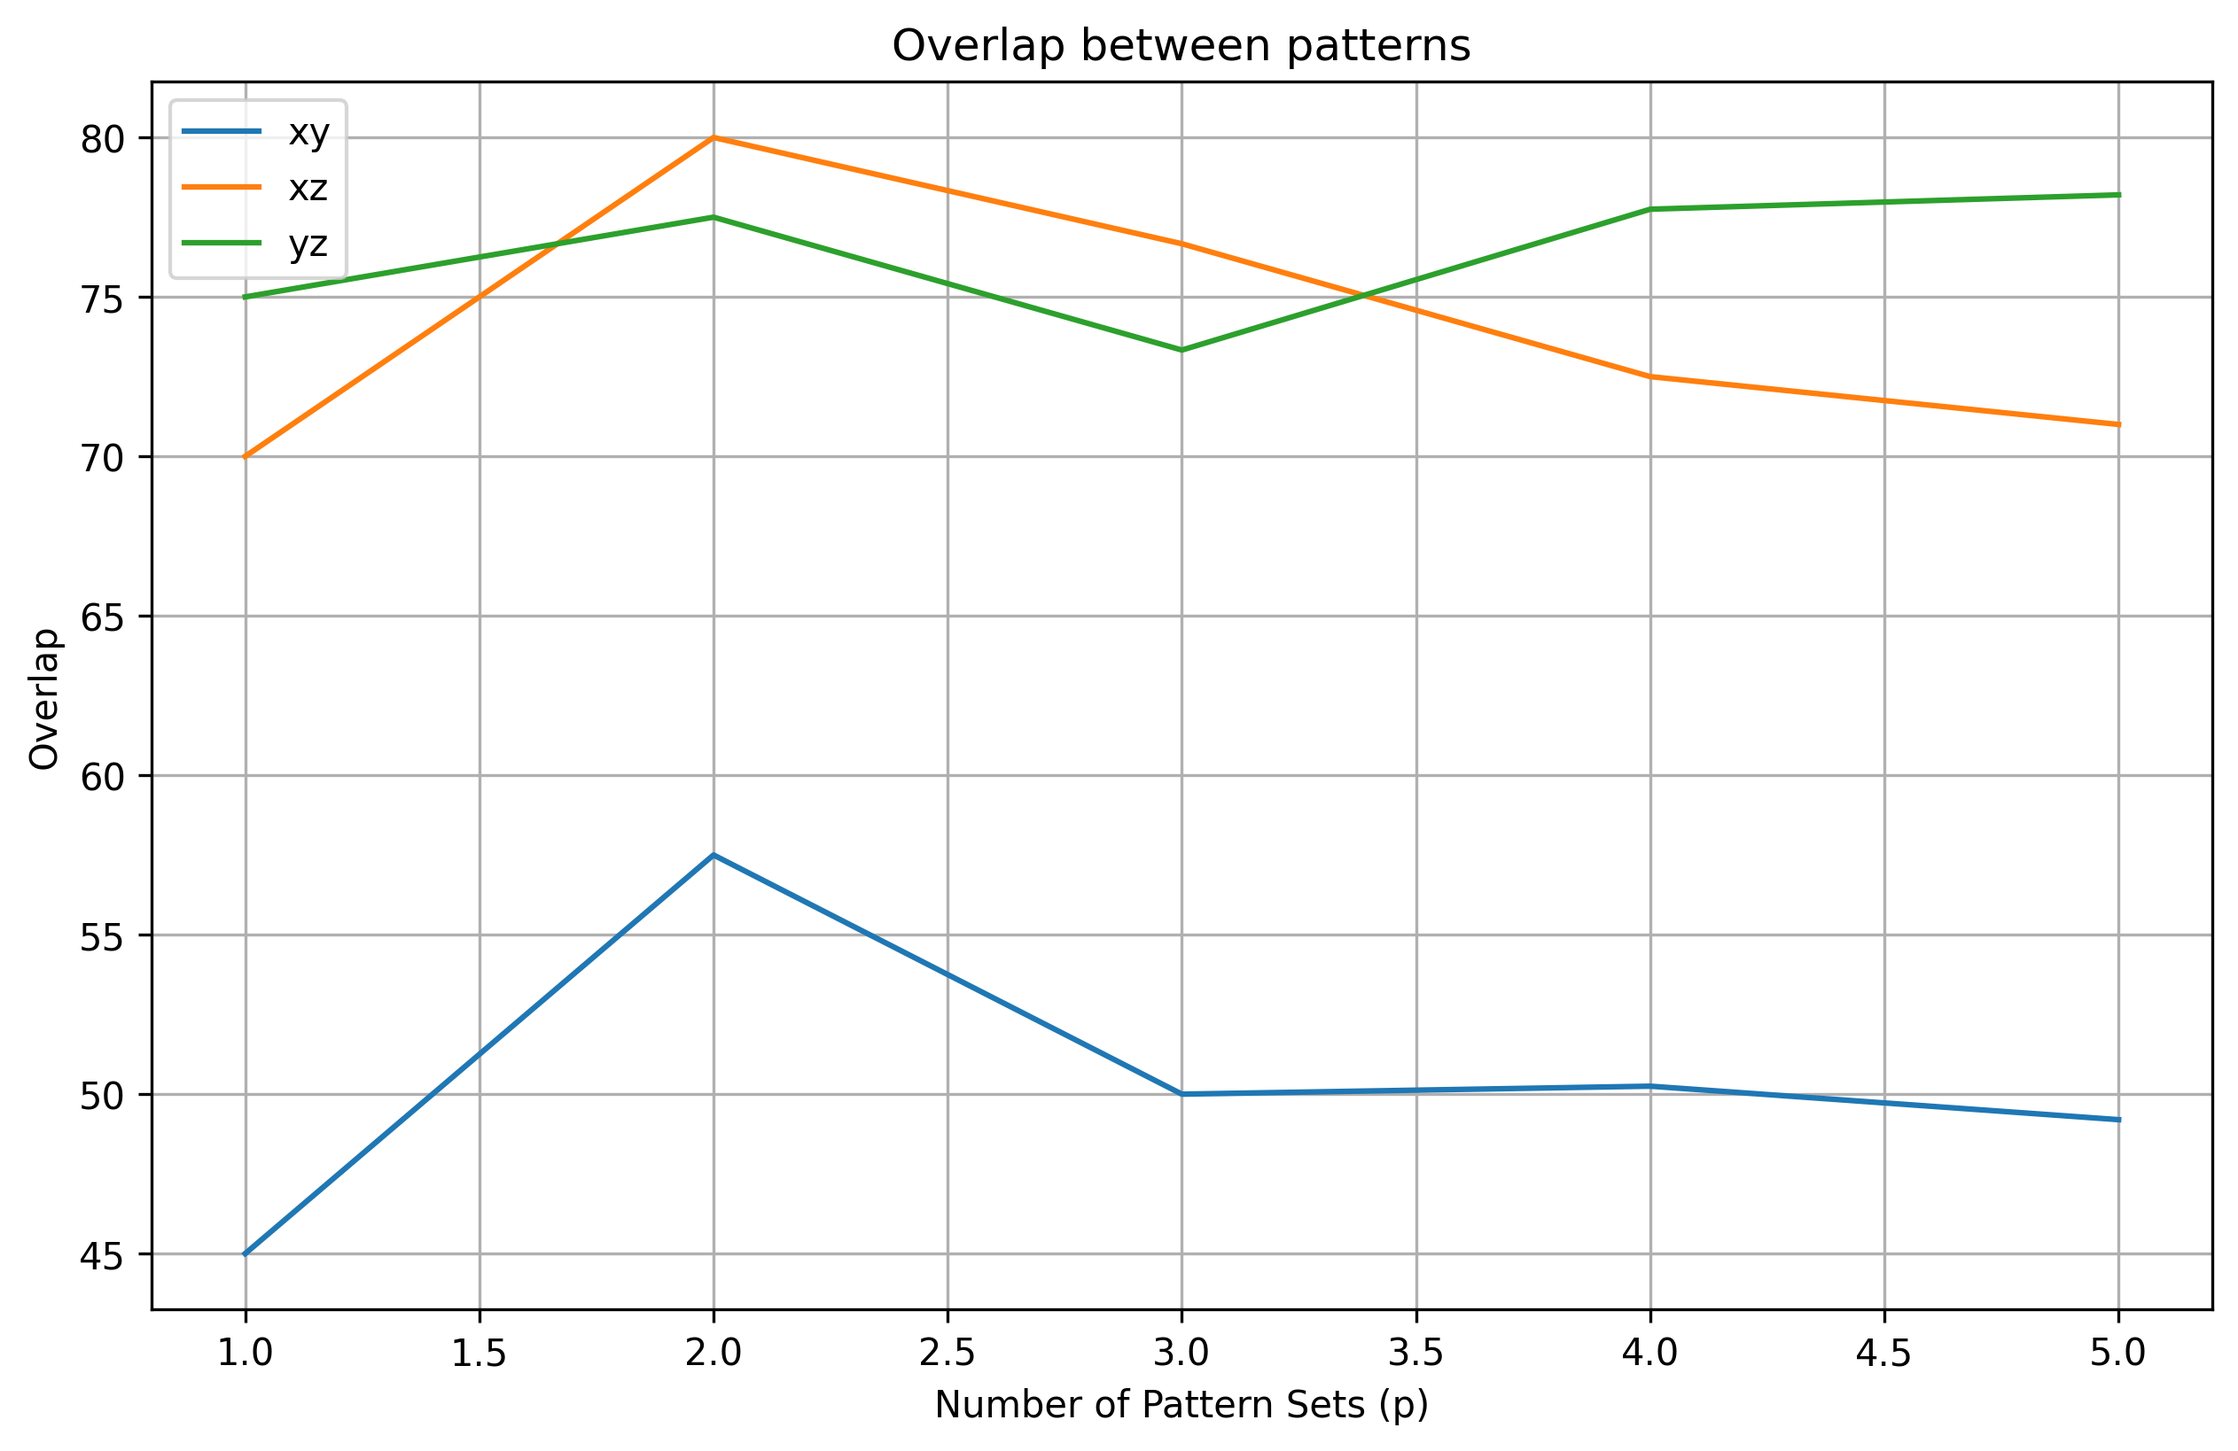
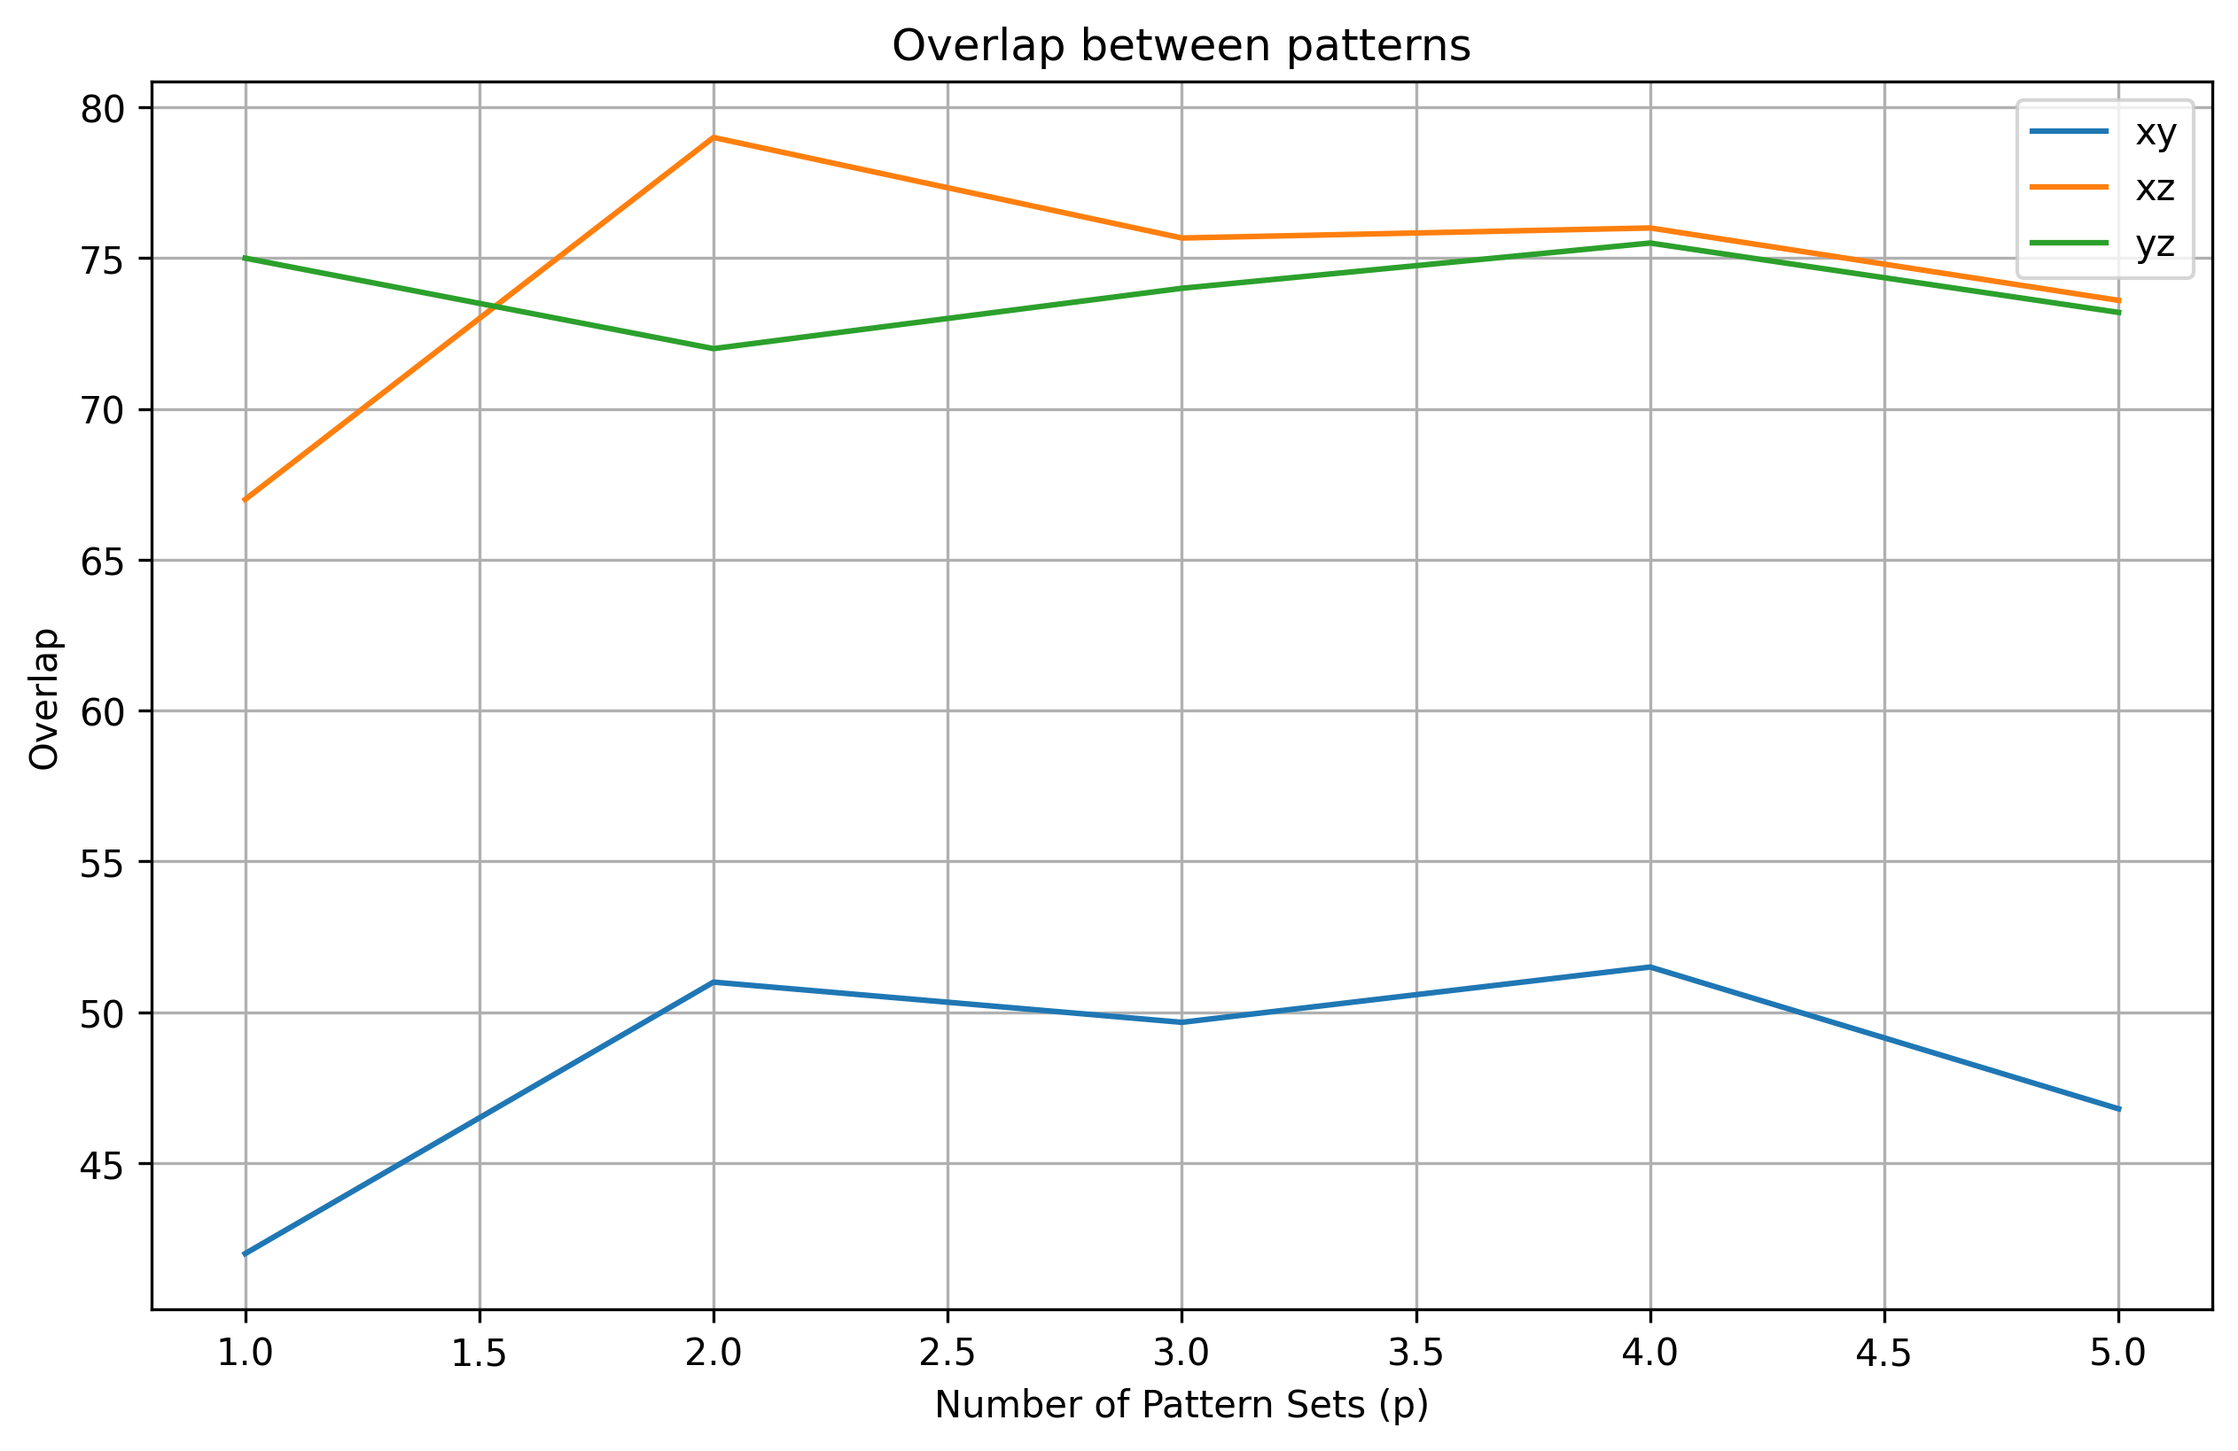
changed plots

diff --git a/src/training.py b/src/training.py
@@ -20,6 +20,7 @@ def generate_patterns(p, network_size):
     x_patterns = [initialize_binary_array(network_size) for _ in range(p)]
     y_patterns = [initialize_binary_array(network_size) for _ in range(p)]
     z_patterns = [np.sign(x + y + (x * y)) for x, y in zip(x_patterns, y_patterns)]
+    # z_patterns = [initialize_binary_array(network_size) for _ in range(p)]
     return x_patterns, y_patterns, z_patterns
 
 def calculate_energy(pattern, weights):
@@ -37,62 +38,46 @@ def test_recall(patterns, net, noise_level, max_steps):
 
 def compute_average_overlap(x_patterns, y_patterns, z_patterns):
     """Compute the average overlap between x, y, and z patterns."""
-    p = len(x_patterns)
     overlap_xy = np.mean([np.sum(x == y) for x, y in zip(x_patterns, y_patterns)])
     overlap_xz = np.mean([np.sum(x == z) for x, z in zip(x_patterns, z_patterns)])
     overlap_yz = np.mean([np.sum(y == z) for y, z in zip(y_patterns, z_patterns)])
     return overlap_xy, overlap_xz, overlap_yz
 
-def determine_memory_capacity(network_size, max_patterns, trials, noise_level, max_steps):
+def determine_memory_capacity(network_size, max_patterns, noise_level, max_steps):
     """
-    Determine the memory capacity of a Hopfield network and record success rates and energy values.
+    Determine the memory capacity of a Hopfield network.
+    For each pattern set, compute the success rate, energy values, and overlaps.
+    (No trials loop; each value is computed from a single trial.)
     """
     success_rates = {}
     energy_dict = {"x": [], "y": [], "z": []}
     overlap_dict = {"xy": [], "xz": [], "yz": []}
 
     for p in range(1, max_patterns + 1):
-        success_count = 0
-        total_energy_x = total_energy_y = total_energy_z = 0
-        total_overlap_xy = total_overlap_xz = total_overlap_yz = 0
+        # Generate patterns and compute overlaps for this single trial
+        x_patterns, y_patterns, z_patterns = generate_patterns(p, network_size)
+        overlap_xy, overlap_xz, overlap_yz = compute_average_overlap(x_patterns, y_patterns, z_patterns)
+        overlap_dict["xy"].append(overlap_xy)
+        overlap_dict["xz"].append(overlap_xz)
+        overlap_dict["yz"].append(overlap_yz)
 
-        for _ in range(trials):
-            x_patterns, y_patterns, z_patterns = generate_patterns(p, network_size)
-            overlap_xy, overlap_xz, overlap_yz = compute_average_overlap(x_patterns, y_patterns, z_patterns)
+        # Stack all patterns for training
+        all_patterns = np.vstack(x_patterns + y_patterns + z_patterns)
 
-            total_overlap_xy += overlap_xy
-            total_overlap_xz += overlap_xz
-            total_overlap_yz += overlap_yz
+        # Train the Hopfield network
+        net = HopfieldNetwork(size=network_size)
+        net.train(all_patterns)
 
-            # Stack all patterns for training
-            all_patterns = np.vstack(x_patterns + y_patterns + z_patterns)
+        # Plot energies for inscribed vs. attractor patterns
+        plot_inscribed_vs_attractor_energies(z_patterns, x_patterns, y_patterns, net, noise_level, max_steps)
 
-            # Train the Hopfield network
-            net = HopfieldNetwork(size=network_size)
-            net.train(all_patterns)
+        # Compute average energy values for each pattern type
+        energy_dict["x"].append(np.mean([calculate_energy(x, net.weights) for x in x_patterns]))
+        energy_dict["y"].append(np.mean([calculate_energy(y, net.weights) for y in y_patterns]))
+        energy_dict["z"].append(np.mean([calculate_energy(z, net.weights) for z in z_patterns]))
 
-            # Plot the energies of inscribed vs. attractor for z-patterns (just one example)
-            plot_inscribed_vs_attractor_energies(z_patterns, x_patterns, y_patterns, net, noise_level, max_steps)
-
-
-            # Accumulate energy values
-            total_energy_x += sum(calculate_energy(x, net.weights) for x in x_patterns)
-            total_energy_y += sum(calculate_energy(y, net.weights) for y in y_patterns)
-            total_energy_z += sum(calculate_energy(z, net.weights) for z in z_patterns)
-
-            if test_recall(z_patterns, net, noise_level, max_steps):
-                success_count += 1
-
-        # Compute averages
-        success_rates[p] = success_count / trials
-        num_patterns_total = 3 * p * trials
-        energy_dict["x"].append(total_energy_x / num_patterns_total)
-        energy_dict["y"].append(total_energy_y / num_patterns_total)
-        energy_dict["z"].append(total_energy_z / num_patterns_total)
-        overlap_dict["xy"].append(total_overlap_xy / trials)
-        overlap_dict["xz"].append(total_overlap_xz / trials)
-        overlap_dict["yz"].append(total_overlap_yz / trials)
-
+        # Record success rate (1.0 for success, 0.0 for failure)
+        success_rates[p] = 1.0 if test_recall(z_patterns, net, noise_level, max_steps) else 0.0
 
     return success_rates, energy_dict, overlap_dict
 
@@ -108,20 +93,23 @@ def plot_memory_capacity(success_rates, path="plots/memory_capacity.png"):
     plt.savefig(path, dpi=300, bbox_inches='tight')
     plt.close()
 
-def plot_energy_values(energy_dict, max_patterns, path="plots/energy_values.png"): 
-    """Plot and save the energy values for different pattern types."""
+def plot_energy_values(energy_dict, max_patterns, path="plots/energy_values.png"):
+    """Plot and save the energy values for different pattern types as discrete crosses."""
     plt.figure(figsize=(10, 6))
+    colors = {"x": "blue", "y": "orange", "z": "red"}
     for label, y_values in energy_dict.items():
-        plt.plot(range(1, max_patterns + 1), y_values, label=label)
+        pattern_indices = list(range(1, max_patterns + 1))
+        plt.scatter(pattern_indices, y_values, label=label, marker='x', color=colors.get(label, "black"))
     plt.xlabel("Number of Pattern Sets (p)")
     plt.ylabel("Energy Values")
-    plt.title("Energy values for patterns")
+    plt.title("Energy Values for Patterns")
     plt.legend()
     plt.grid(True)
     plt.savefig(path, dpi=300, bbox_inches='tight')
     plt.close()
 
 def plot_overlaps(overlap_dict, max_patterns, path="plots/overlaps.png"): 
+    """Plot and save the overlaps between patterns."""
     plt.figure(figsize=(10, 6))
     for label, y_values in overlap_dict.items():
         plt.plot(range(1, max_patterns + 1), y_values, label=label)
@@ -133,86 +121,87 @@ def plot_overlaps(overlap_dict, max_patterns, path="plots/overlaps.png"):
     plt.savefig(path, dpi=300, bbox_inches='tight')
     plt.close()
 
-def plot_inscribed_vs_attractor_energies(z_patterns, x_patterns, y_patterns, net, noise_level, max_steps, path="plots/energy_per_pattern.png"):
+def process_pattern(pattern, net, noise_level, max_steps):
     """
-    For each pattern triplet (Z, X, Y):
-      - Compute the energy of the stored (inscribed) pattern (blue dot for each type).
-      - Add noise and recall it, then compute the energy of the attractor (red cross for each type).
-      - Plot all energies on the same x-axis index with no lines connecting them.
+    Compute the stored energy and attractor energy for a given pattern.
     """
-    # Initialize lists for stored and attractor energies for each pattern type
-    energies_stored_z = []
-    energies_attractor_z = []
-    energies_stored_x = []
-    energies_attractor_x = []
-    energies_stored_y = []
-    energies_attractor_y = []
+    E_stored = calculate_energy(pattern, net.weights)
+    noisy_pattern = add_noise_to_pattern(pattern, noise_level)
+    recalled_pattern, _ = net.recall(noisy_pattern, pattern, max_steps)
+    E_attractor = calculate_energy(recalled_pattern, net.weights)
+    return E_stored, E_attractor
 
-    # Discrete x-axis indices for each pattern triplet
-    pattern_indices = range(len(z_patterns))
+def plot_inscribed_vs_attractor_energies(z_patterns, x_patterns, y_patterns, net, noise_level, max_steps, 
+                                           path="plots/energy_component_overlap_2.png", x_max=6, y_min=-80, y_max=-35):
+    """
+    For each pattern set, where each set consists of 3 patterns (X, Y, Z):
+      - Compute the energy of the stored (inscribed) pattern.
+      - Add noise and recall it, then compute the energy of the attractor.
+      - Plot stored and attractor energies for all three pattern types on a global index.
+      
+    Global indexing:
+      For each set i (starting from 0), assign:
+         X-pattern: index = 3*i + 1
+         Y-pattern: index = 3*i + 2
+         Z-pattern: index = 3*i + 3
+         
+    The x-axis will always span from 1 to x_max (default=6) and the y-axis is fixed from y_min to y_max.
+    """
+    p = len(z_patterns)  # number of sets
+    # Lists for energies
+    stored_energies = {"x": [], "y": [], "z": []}
+    attractor_energies = {"x": [], "y": [], "z": []}
 
-    for i in pattern_indices:
-        # Get each pattern from the triplet
-        stored_z = z_patterns[i]
-        stored_x = x_patterns[i]
-        stored_y = y_patterns[i]
+    # Global indices for each pattern type
+    indices = {"x": [3*i + 1 for i in range(p)],
+               "y": [3*i + 2 for i in range(p)],
+               "z": [3*i + 3 for i in range(p)]}
 
-        # Compute energy of the inscribed (stored) patterns
-        E_stored_z = calculate_energy(stored_z, net.weights)
-        E_stored_x = calculate_energy(stored_x, net.weights)
-        E_stored_y = calculate_energy(stored_y, net.weights)
+    # Compute energies for each pattern in each set
+    for i in range(p):
+        E_stored_x, E_attractor_x = process_pattern(x_patterns[i], net, noise_level, max_steps)
+        E_stored_y, E_attractor_y = process_pattern(y_patterns[i], net, noise_level, max_steps)
+        E_stored_z, E_attractor_z = process_pattern(z_patterns[i], net, noise_level, max_steps)
 
-        # Add noise and recall each pattern
-        noisy_z = add_noise_to_pattern(stored_z, noise_level)
-        recalled_z, _ = net.recall(noisy_z, stored_z, max_steps)
-        noisy_x = add_noise_to_pattern(stored_x, noise_level)
-        recalled_x, _ = net.recall(noisy_x, stored_x, max_steps)
-        noisy_y = add_noise_to_pattern(stored_y, noise_level)
-        recalled_y, _ = net.recall(noisy_y, stored_y, max_steps)
+        stored_energies["x"].append(E_stored_x)
+        stored_energies["y"].append(E_stored_y)
+        stored_energies["z"].append(E_stored_z)
 
-        # Compute energy of the attractors
-        E_attractor_z = calculate_energy(recalled_z, net.weights)
-        E_attractor_x = calculate_energy(recalled_x, net.weights)
-        E_attractor_y = calculate_energy(recalled_y, net.weights)
+        attractor_energies["x"].append(E_attractor_x)
+        attractor_energies["y"].append(E_attractor_y)
+        attractor_energies["z"].append(E_attractor_z)
 
-        # Append the energies to the lists
-        energies_stored_z.append(E_stored_z)
-        energies_attractor_z.append(E_attractor_z)
-        energies_stored_x.append(E_stored_x)
-        energies_attractor_x.append(E_attractor_x)
-        energies_stored_y.append(E_stored_y)
-        energies_attractor_y.append(E_attractor_y)
-
-    # Create the plot
     plt.figure(figsize=(10, 6))
+    # Plot stored energies (dots)
+    plt.scatter(indices["x"], stored_energies["x"], color='blue', marker='o', label='Stored X-Patterns')
+    plt.scatter(indices["y"], stored_energies["y"], color='orange', marker='o', label='Stored Y-Patterns')
+    plt.scatter(indices["z"], stored_energies["z"], color='red', marker='o', label='Stored Z-Patterns')
 
-    # Plot stored (inscribed) energies for each pattern type (blue dots)
-    plt.scatter(pattern_indices, energies_stored_z, color='blue', marker='o', label='Stored Z-Patterns')
-    plt.scatter(pattern_indices, energies_stored_x, color='cyan', marker='o', label='Stored X-Patterns')
-    plt.scatter(pattern_indices, energies_stored_y, color='magenta', marker='o', label='Stored Y-Patterns')
+    # Plot attractor energies (crosses)
+    plt.scatter(indices["x"], attractor_energies["x"], color='blue', marker='x', s=100, label='Attractor X-Patterns')
+    plt.scatter(indices["y"], attractor_energies["y"], color='orange', marker='x', s=100, label='Attractor Y-Patterns')
+    plt.scatter(indices["z"], attractor_energies["z"], color='red', marker='x', s=100, label='Attractor Z-Patterns')
 
-    # Plot attractor energies for each pattern type (red crosses)
-    plt.scatter(pattern_indices, energies_attractor_z, color='red', marker='x', label='Attractor Z-Patterns')
-    plt.scatter(pattern_indices, energies_attractor_x, color='orange', marker='x', label='Attractor X-Patterns')
-    plt.scatter(pattern_indices, energies_attractor_y, color='green', marker='x', label='Attractor Y-Patterns')
-
-    plt.xlabel("Pattern Index")
+    plt.xlabel("Global Pattern Index")
     plt.ylabel("Energy")
-    plt.title("Stored vs. Attractor Energies for Z-, X-, and Y-Patterns")
+    plt.title("Stored vs. Attractor Energies for Componenet Overlap Patterns")
     plt.legend()
     plt.grid(True)
+
+    # Set consistent axes across all plots
+    plt.xlim(0.5, x_max + 0.5)
+    plt.ylim(y_min, y_max)
+    
     plt.savefig(path, dpi=300, bbox_inches='tight')
     plt.close()
 
-
 # Example usage
-network_size = 100  # Number of neurons in the Hopfield network
+network_size = 100   # Number of neurons in the Hopfield network
 max_patterns = 5     # Maximum number of pattern sets to test
-trials = 1          # Number of trials per pattern set
-noise_level = 0.2   # Noise level in patterns
-max_steps = 10000   # Max update steps for recall
+noise_level = 0.2    # Noise level in patterns
+max_steps = 10000    # Maximum update steps for recall
 
-success_rates, energy_dict, overlap_dict = determine_memory_capacity(network_size, max_patterns, trials, noise_level, max_steps)
+success_rates, energy_dict, overlap_dict = determine_memory_capacity(network_size, max_patterns, noise_level, max_steps)
 plot_memory_capacity(success_rates)
 plot_energy_values(energy_dict, max_patterns)
 plot_overlaps(overlap_dict, max_patterns)

diff --git a/src/network.py b/src/network.py
@@ -14,10 +14,8 @@ class HopfieldNetwork:
         Trains network according to the Hebbian Learning rule.
         :param patterns: array of binary patterns (+1, -1) with shape (num_patterns, pattern_size).
         """
-        num_patterns, pattern_size = patterns.shape
-
-        # Compute weights using matrix multiplication for all patterns
-        self.weights = np.dot(patterns.T, patterns) / num_patterns
+        # Compute weights using matrix multiplication for all patterns and normalize by the number of neurons 
+        self.weights = np.dot(patterns.T, patterns) / self.size
 
         # Zero out the diagonal to avoid self-connections
         np.fill_diagonal(self.weights, 0)
